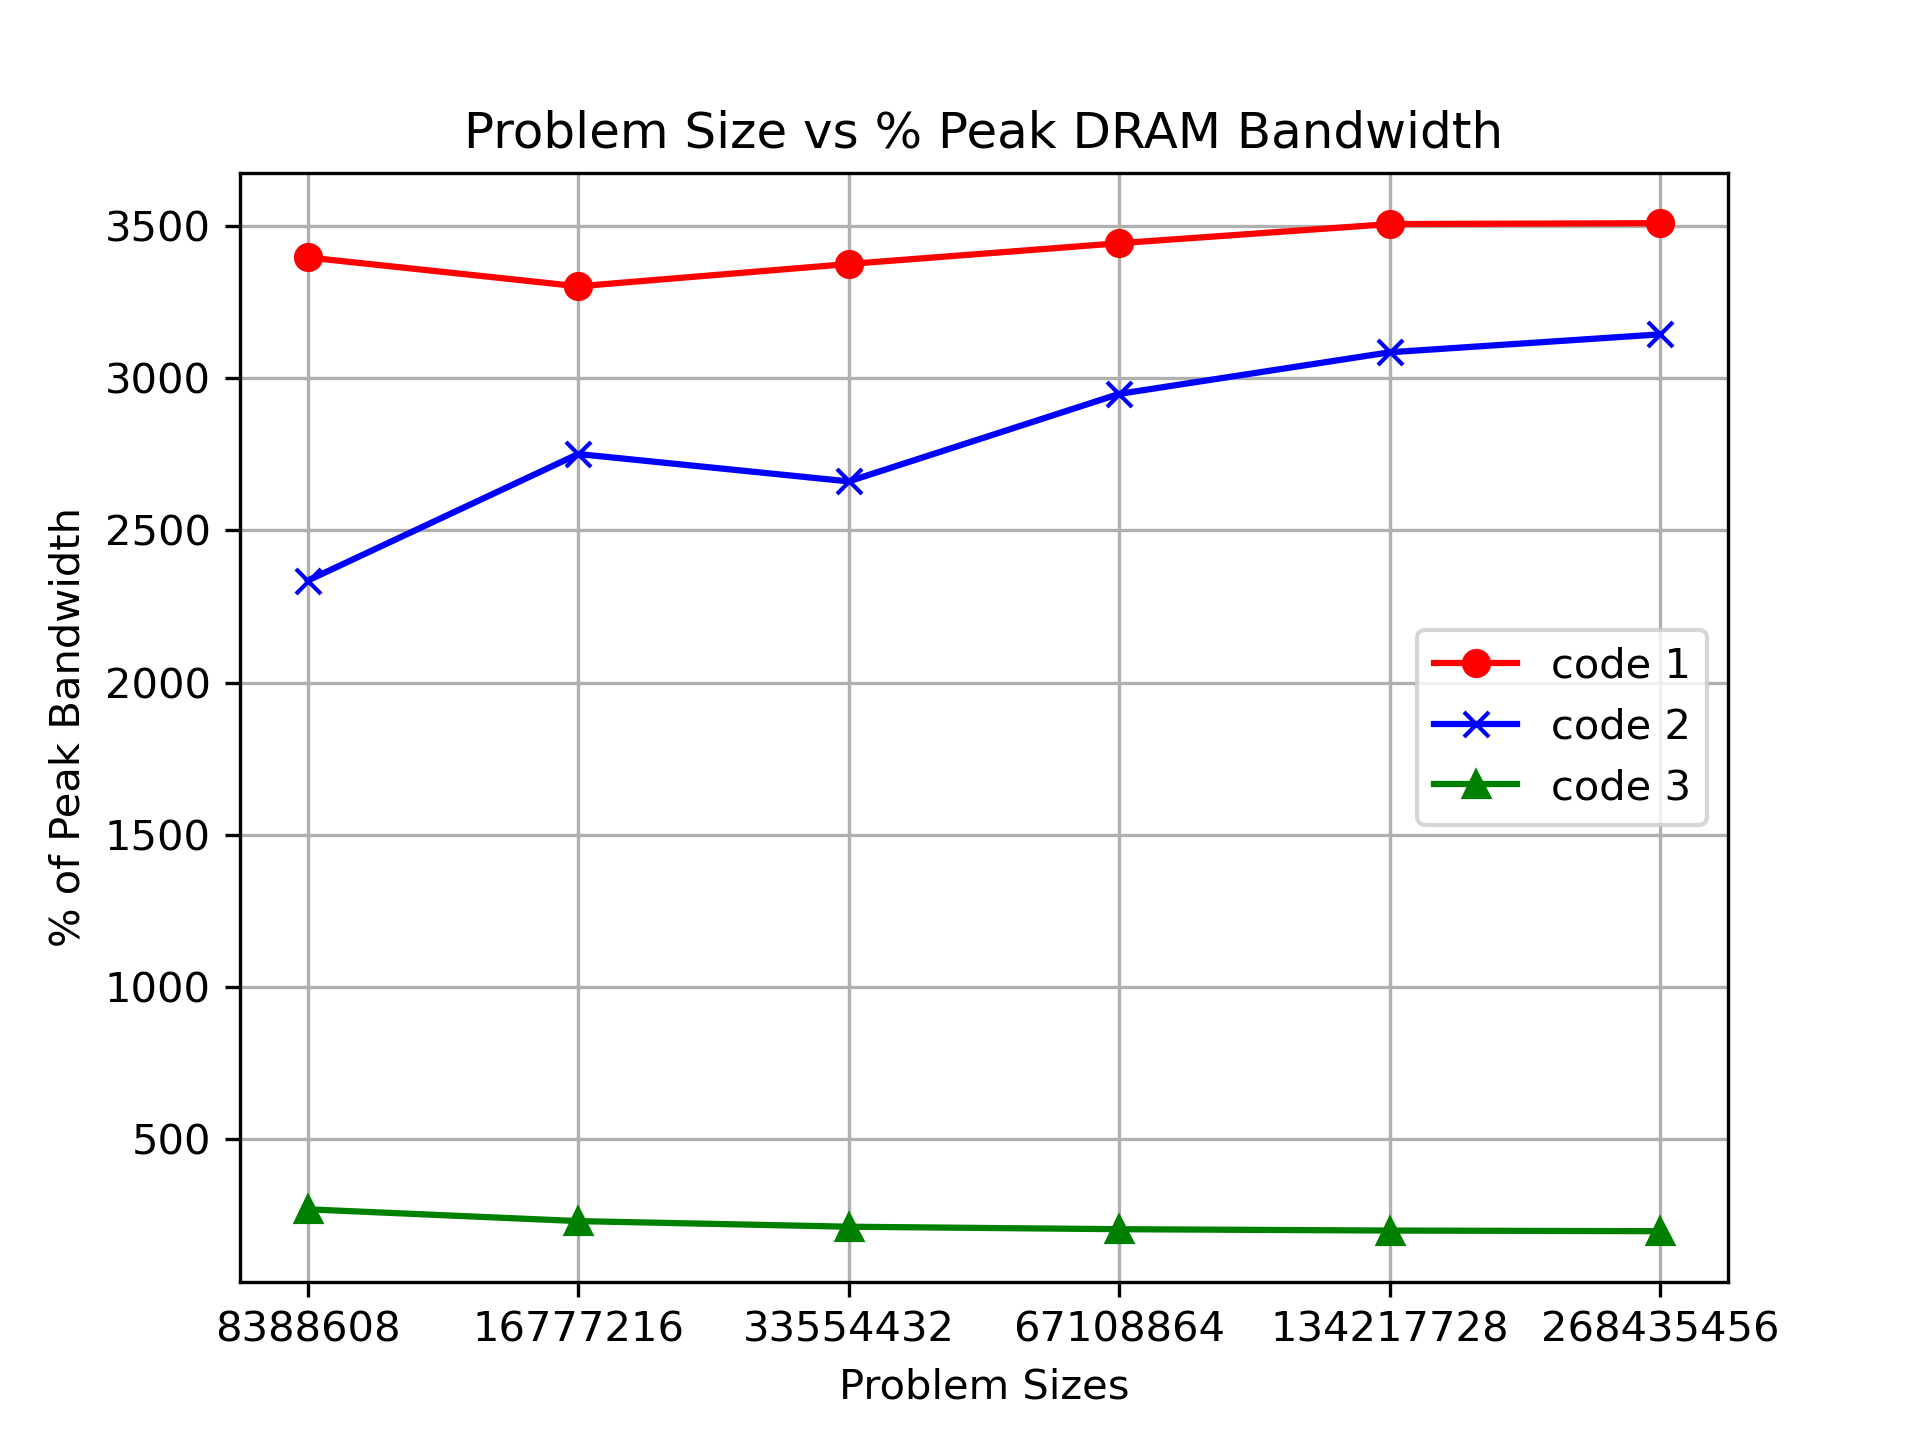
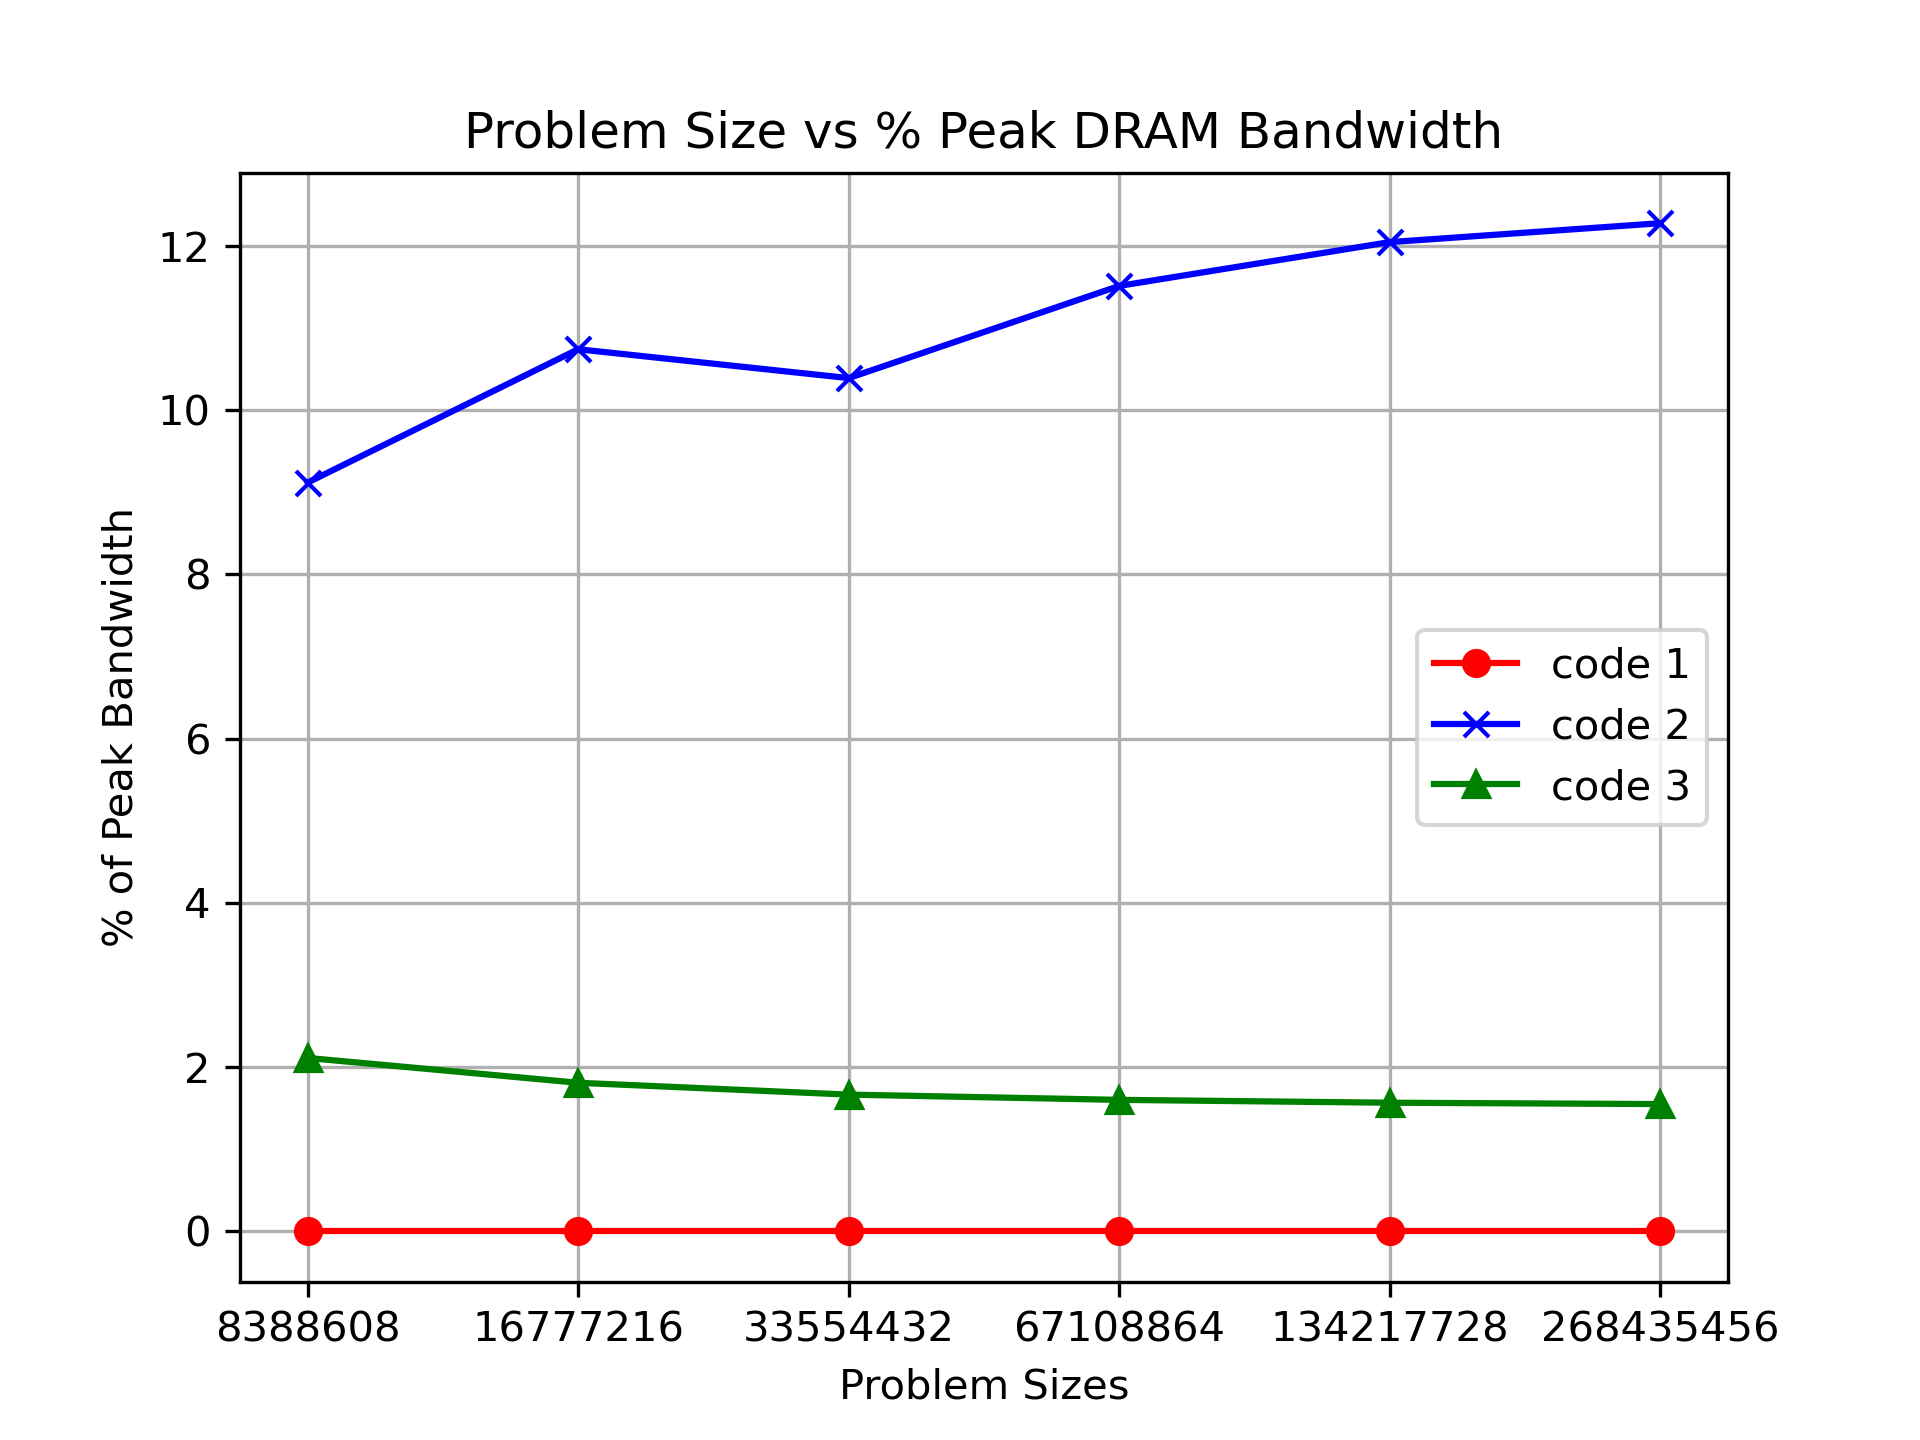
fixed graphs

diff --git a/plot_3vars_savefig.py b/plot_3vars_savefig.py
@@ -19,7 +19,7 @@ Assumptions: developed and tested using Python version 3.8.8 on macOS 11.6
 import pandas as pd
 import matplotlib.pyplot as plt
 
-plot_fname = "latency_ns.png"
+plot_fname = "bandwidth_pct.png"
 
 fname = "sample_data_3vars.csv"
 df = pd.read_csv(fname, comment="#")
@@ -39,7 +39,7 @@ code3_time = df[var_names[3]].values.tolist()
 
 plt.figure()
 
-plt.title("Problem Size vs Memory Latency")
+plt.title("Problem Size vs % Peak DRAM Bandwidth")
 
 xlocs = [i for i in range(len(problem_sizes))]
 
@@ -53,7 +53,7 @@ plt.plot(code3_time, "g-^")
 #plt.yscale("log")
 
 plt.xlabel("Problem Sizes")
-plt.ylabel("Effective Latency (ns/access)")
+plt.ylabel("% of Peak Bandwidth")
 
 varNames = [var_names[1], var_names[2], var_names[3]]
 plt.legend(varNames, loc="best")
